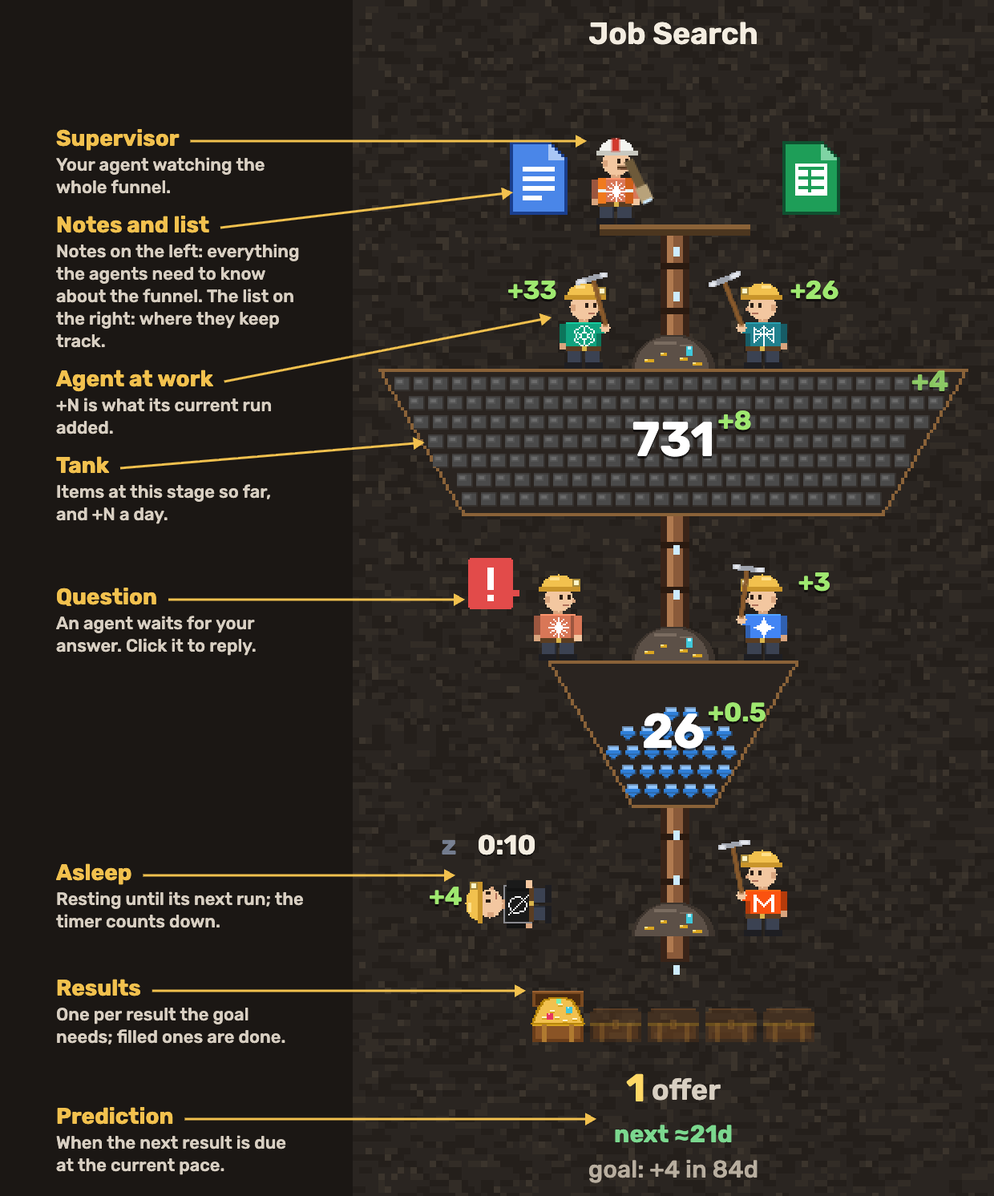
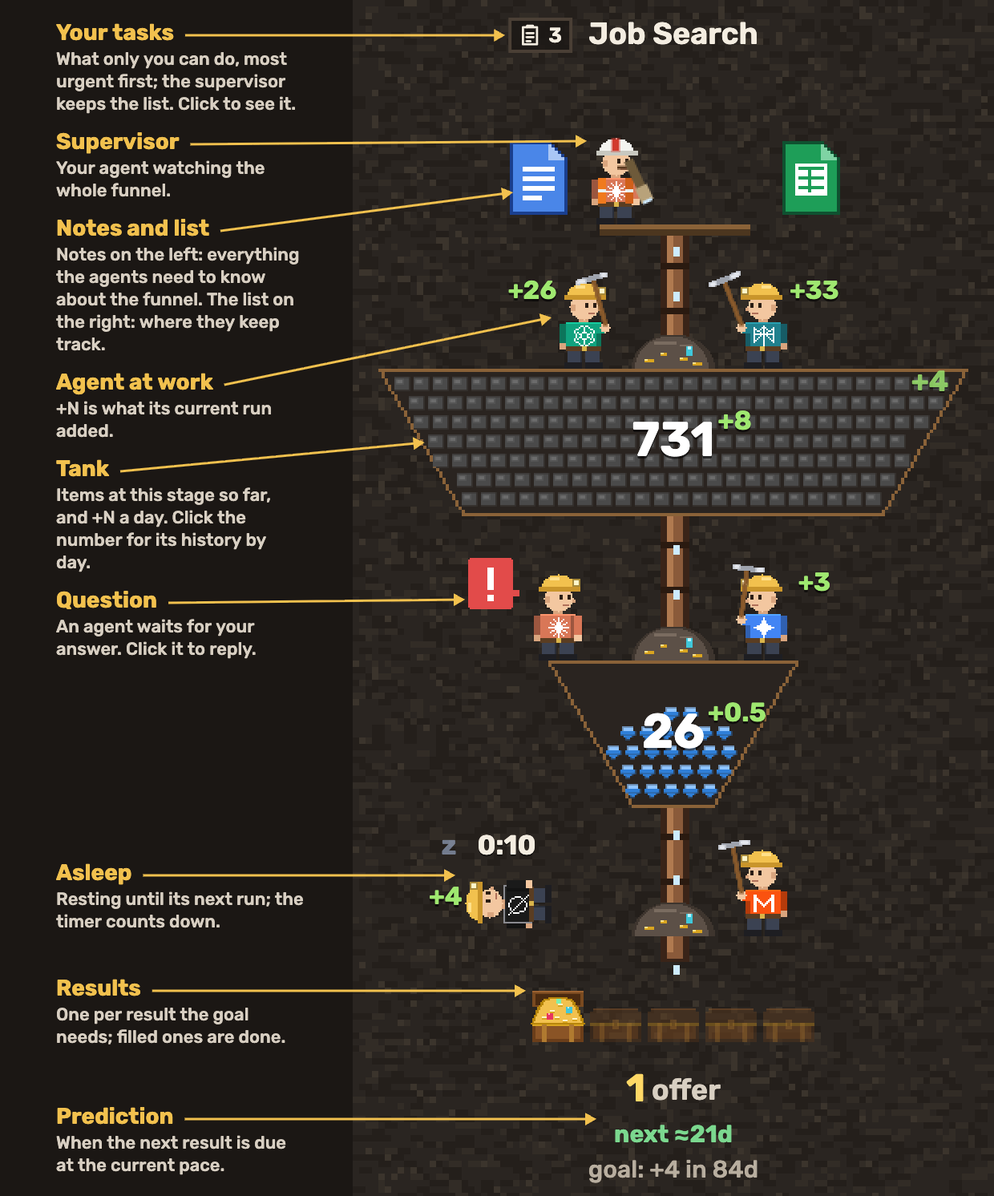
Docs up to date: README covers your tasks, a stage's history, run costs, the fixed zoom and the wake script; the explained funnel (README, landing page) shows and labels your tasks; listing counts 14 tools

diff --git a/src/i18n.js b/src/i18n.js
@@ -6,12 +6,12 @@
 // Static pages mark text with data-i18n="key" (text), data-i18n-html="key" (text with links) and
 // data-i18n-attr="placeholder:key; title:key"; scripts call t(key, …args).
 
-import es from './lang/es.js?v=e7998c4c';
-import vi from './lang/vi.js?v=e7998c4c';
-import ja from './lang/ja.js?v=e7998c4c';
-import pt from './lang/pt.js?v=e7998c4c';
-import tr from './lang/tr.js?v=e7998c4c';
-import ko from './lang/ko.js?v=e7998c4c';
+import es from './lang/es.js?v=a894eda7';
+import vi from './lang/vi.js?v=a894eda7';
+import ja from './lang/ja.js?v=a894eda7';
+import pt from './lang/pt.js?v=a894eda7';
+import tr from './lang/tr.js?v=a894eda7';
+import ko from './lang/ko.js?v=a894eda7';
 
 export const LANGS = { en: 'English', ru: 'Русский', es: 'Español', pt: 'Português', zh: '中文', ja: '日本語', ko: '한국어', tr: 'Türkçe', th: 'ไทย', vi: 'Tiếng Việt' };
 export const SHORT = { en: 'EN', ru: 'RU', es: 'ES', pt: 'PT', zh: '中文', ja: 'JA', ko: 'KO', tr: 'TR', th: 'ไทย', vi: 'VI' };
@@ -122,6 +122,8 @@ const STRINGS = {
   'home.p3': L('When an agent needs you, it raises a hand. Reply from your phone and it gets back to work.', 'Когда агенту нужны вы, он поднимает руку. Ответьте с телефона — и он вернётся к работе.', '当智能体需要你时，它会举手。用手机回复，它就继续工作。', 'เมื่อเอเจนต์ต้องการคุณ มันจะยกมือ ตอบจากมือถือแล้วมันจะกลับไปทำงานต่อ'),
 
   // The landing page's funnel: what each part is
+  'guide.tasks.h': L('Your tasks', 'Ваши дела', '你的待办', 'งานของคุณ'),
+  'guide.tasks': L('What only you can do, most urgent first; the supervisor keeps the list. Click to see it.', 'То, что можете сделать только вы, от самого срочного; список ведёт супервайзер. Нажмите, чтобы посмотреть.', '只有你能做的事，最紧急的在前；清单由主管维护。点击查看。', 'สิ่งที่มีแค่คุณทำได้ เรียงจากเร่งด่วนที่สุด ผู้ดูแลเป็นคนดูแลรายการ คลิกเพื่อดู'),
   'guide.supervisor.h': L('Supervisor', 'Супервайзер', '主管', 'ผู้ดูแล'),
   'guide.supervisor': L('Your agent watching the whole funnel.', 'Ваш агент, следящий за всей воронкой.', '你的智能体，盯着整个漏斗。', 'เอเจนต์ของคุณที่คอยดูทั้งกรวย'),
   'guide.doc.h': L('Notes and list', 'Заметки и список', '笔记和清单', 'โน้ตและรายการ'),
@@ -129,7 +131,7 @@ const STRINGS = {
   'guide.sheet.h': L('Sheet', 'Таблица', '表格', 'ตาราง'),
   'guide.sheet': L('The table where the agents keep track of everything.', 'Таблица, где агенты ведут учёт всего.', '智能体记录一切的表格。', 'ตารางที่เอเจนต์ใช้ติดตามทุกอย่าง'),
   'guide.tank.h': L('Tank', 'Бак', '储罐', 'ถัง'),
-  'guide.tank': L('Items at this stage so far, and +N a day (or an hour, a week: your choice).', 'Сколько позиций дошло до этого этапа и +N в день (или в час, в неделю — как выберете).', '到达这个阶段的数量，以及每天 +N（也可选每小时、每周）。', 'จำนวนรายการที่ถึงขั้นนี้แล้ว และ +N ต่อวัน (หรือต่อชั่วโมง ต่อสัปดาห์ ตามที่เลือก)'),
+  'guide.tank': L('Items at this stage so far, and +N a day (or an hour, a week: your choice). Click the number for its history by day.', 'Сколько позиций дошло до этого этапа и +N в день (или в час, в неделю — как выберете). Нажмите на число — история по дням.', '到达这个阶段的数量，以及每天 +N（也可选每小时、每周）。 点击数字查看每日历史。', 'จำนวนรายการที่ถึงขั้นนี้แล้ว และ +N ต่อวัน (หรือต่อชั่วโมง ต่อสัปดาห์ ตามที่เลือก) คลิกตัวเลขเพื่อดูประวัติรายวัน'),
   'guide.question.h': L('Question', 'Вопрос', '问题', 'คำถาม'),
   'guide.question': L('An agent waits for your answer. Click it to reply.', 'Агент ждёт вашего ответа. Нажмите, чтобы ответить.', '智能体在等你回复。点击即可回复。', 'เอเจนต์กำลังรอคำตอบจากคุณ คลิกเพื่อตอบ'),
   'guide.asleep.h': L('Asleep', 'Спит', '休眠', 'หลับอยู่'),

diff --git a/index.html b/index.html
@@ -23,7 +23,7 @@
   <link rel="preconnect" href="https://fonts.googleapis.com">
   <link rel="preconnect" href="https://fonts.gstatic.com" crossorigin>
   <link href="https://fonts.googleapis.com/css2?family=Tiny5&family=Rubik:wght@400;500;600;700&family=Noto+Sans+SC:wght@400;500;700&family=Noto+Sans+Thai:wght@400;500;700&family=Be+Vietnam+Pro:wght@400;500;600;700&family=Noto+Sans+JP:wght@400;500;700&family=Noto+Sans+KR:wght@400;500;700&display=swap" rel="stylesheet">
-  <link rel="stylesheet" href="site.css?v=e7998c4c">
+  <link rel="stylesheet" href="site.css?v=a894eda7">
 </head>
 <body>
   <div class="wrap">
@@ -48,12 +48,13 @@
            at its part's height (--y) with an arrow to it (--x), as fractions of the picture. -->
       <div class="guide">
         <img src="docs/img/funnel-plain.png" alt="One goal funnel of the demo" data-i18n-attr="alt:home.shotAlt" width="800" height="1368">
+        <div class="note up" style="--x:0.243;--y:0.029"><b data-i18n="guide.tasks.h">Your tasks</b><span data-i18n="guide.tasks">What only you can do, most urgent first; the supervisor keeps the list. Click to see it.</span></div>
         <div class="note up" style="--x:0.37;--y:0.118"><b data-i18n="guide.supervisor.h">Supervisor</b><span data-i18n="guide.supervisor">Your agent watching the whole funnel.</span></div>
         <div class="note" style="--x:0.255;--y:0.161"><b data-i18n="guide.doc.h">Notes and list</b><span data-i18n="guide.doc">Notes on the left: everything the agents need to know about the funnel. The list on the right: where they keep track.</span></div>
         <div class="note" style="--x:0.315;--y:0.265"><b data-i18n="guide.work.h">Agent at work</b><span data-i18n="guide.work">+N is what its current run added.</span></div>
-        <div class="note" style="--x:0.117;--y:0.37"><b data-i18n="guide.tank.h">Tank</b><span data-i18n="guide.tank">Items at this stage so far, and +N a day.</span></div>
-        <div class="note" style="--x:0.18;--y:0.489"><b data-i18n="guide.question.h">Question</b><span data-i18n="guide.question">An agent waits for your answer. Click it to reply.</span></div>
-        <div class="note" style="--x:0.095;--y:0.732"><b data-i18n="guide.asleep.h">Asleep</b><span data-i18n="guide.asleep">Resting until its next run; the timer counts down.</span></div>
+        <div class="note" style="--x:0.117;--y:0.37"><b data-i18n="guide.tank.h">Tank</b><span data-i18n="guide.tank">Items at this stage so far, and +N a day. Click the number for its history by day.</span></div>
+        <div class="note" style="--x:0.18;--y:0.501"><b data-i18n="guide.question.h">Question</b><span data-i18n="guide.question">An agent waits for your answer. Click it to reply.</span></div>
+        <div class="note" style="--x:0.165;--y:0.732"><b data-i18n="guide.asleep.h">Asleep</b><span data-i18n="guide.asleep">Resting until its next run; the timer counts down.</span></div>
         <div class="note" style="--x:0.275;--y:0.828"><b data-i18n="guide.results.h">Results</b><span data-i18n="guide.results">One per result the goal needs; filled ones are done.</span></div>
         <div class="note" style="--x:0.385;--y:0.936"><b data-i18n="guide.prediction.h">Prediction</b><span data-i18n="guide.prediction">When the next result is due at the current pace.</span></div>
       </div>
@@ -79,7 +80,7 @@
       <span><a href="https://github.com/oponfil/goalcraft/blob/main/docs/MCP.md" target="_blank" rel="noopener" data-i18n="footer.docs">Docs</a> · <a href="deck/" target="_blank" rel="noopener" data-i18n="footer.deck">Pitch deck</a> · <a href="privacy/" data-i18n="footer.privacy">Privacy</a> · <a href="terms/" data-i18n="footer.terms">Terms</a> · <a href="contact/" data-i18n="footer.contact">Contact</a> · <a class="gh" href="https://github.com/oponfil/goalcraft" target="_blank" rel="noopener" aria-label="GitHub" title="GitHub"><svg viewBox="0 0 16 16" width="16" height="16" aria-hidden="true"><path fill="currentColor" d="M8 0C3.58 0 0 3.58 0 8c0 3.54 2.29 6.53 5.47 7.59.4.07.55-.17.55-.38 0-.19-.01-.82-.01-1.49-2.01.37-2.53-.49-2.69-.94-.09-.23-.48-.94-.82-1.13-.28-.15-.68-.52-.01-.53.63-.01 1.08.58 1.23.82.72 1.21 1.87.87 2.33.66.07-.52.28-.87.51-1.07-1.78-.2-3.64-.89-3.64-3.95 0-.87.31-1.59.82-2.15-.08-.2-.36-1.02.08-2.12 0 0 .67-.21 2.2.82.64-.18 1.32-.27 2-.27.68 0 1.36.09 2 .27 1.53-1.04 2.2-.82 2.2-.82.44 1.1.16 1.92.08 2.12.51.56.82 1.27.82 2.15 0 3.07-1.87 3.75-3.65 3.95.29.25.54.73.54 1.48 0 1.07-.01 1.93-.01 2.2 0 .21.15.46.55.38A8.013 8.013 0 0016 8c0-4.42-3.58-8-8-8z"/></svg></a></span>
     </footer>
   </div>
-  <script type="module" src="src/nav.js?v=e7998c4c"></script>
-  <script type="module" src="src/guide-live.js?v=e7998c4c"></script>
+  <script type="module" src="src/nav.js?v=a894eda7"></script>
+  <script type="module" src="src/guide-live.js?v=a894eda7"></script>
 </body>
 </html>

diff --git a/tools/render-docs.js b/tools/render-docs.js
@@ -1,12 +1,12 @@
 // Renders the README pictures (agents sheet, theme samples, the board) and the link preview card from the same drawing code as
 // the dashboard and saves them through serve.py: open http://localhost:5173/tools/render-docs.html
 // (always in English: the page adds ?lang=en to itself).
-import { AGENTS, FUNNELS } from '../src/data.js?v=e7998c4c';
-import { Scene, CW, drawWork, TOOL_PERIOD } from '../src/scene.js?v=e7998c4c';
-import { guideScene, guideHeight, drawGuide, TH } from '../src/guide.js?v=e7998c4c';
+import { AGENTS, FUNNELS } from '../src/data.js?v=a894eda7';
+import { Scene, CW, drawWork, TOOL_PERIOD } from '../src/scene.js?v=a894eda7';
+import { guideScene, guideHeight, drawGuide, TH } from '../src/guide.js?v=a894eda7';
 import { GIFEncoder, quantize, applyPalette } from 'https://cdn.jsdelivr.net/npm/gifenc@1.0.3/dist/gifenc.esm.js';
-import { THEMES } from '../src/themes.js?v=e7998c4c';
-import { drawStanding, drawPickaxe, drawShears, drawBeaker, drawBow, drawArrow, drawLaptop, drawStamp, drawHammer, drawSword, drawRollingPin } from '../src/sprites.js?v=e7998c4c';
+import { THEMES } from '../src/themes.js?v=a894eda7';
+import { drawStanding, drawPickaxe, drawShears, drawBeaker, drawBow, drawArrow, drawLaptop, drawStamp, drawHammer, drawSword, drawRollingPin } from '../src/sprites.js?v=a894eda7';
 
 const FONT = 'Rubik, system-ui, sans-serif';
 
@@ -208,7 +208,7 @@ function funnelGuide({ labels = true, scene = null, show = true } = {}) {
   const left = labels ? side : 0;
   const [c, g] = canvas(left + CW * K, TH * K + Math.min(scene.canvas.height, Math.ceil(guideHeight(scene) * K)), show);
   g.fillStyle = '#1B1714'; g.fillRect(0, 0, c.width, c.height);
-  drawGuide(scene, g, left);
+  const drawn = drawGuide(scene, g, left);
   // Points in the scene's logical coordinates → picture pixels.
   const P = (x, y) => [left + x * K, TH * K + y * K];
   const f = scene.funnels[0], n = f.stages.length, cx = scene.cx(0);
@@ -224,9 +224,10 @@ function funnelGuide({ labels = true, scene = null, show = true } = {}) {
   // The supervisor stands at the platform's left end for a while; the arrow points at it there.
   const sup = scene.spot(scene.agents.find(a => a.sup), 'ask');
   const notes = [
+    ...(drawn.tasks ? [[[left + drawn.tasks.x, drawn.tasks.y + drawn.tasks.h / 2], 'Your tasks', 'What only you can do, most urgent first; the supervisor keeps the list. Click to see it.']] : []),
     [P(sup.x + 2, sup.y + 2), 'Supervisor', 'Your agent watching the whole funnel.'],
     [P(doc0.x + 3, doc0.y + 18), 'Notes and list', 'Notes on the left: everything the agents need to know about the funnel. The list on the right: where they keep track.'],
-    [P(cx - tankMid + 2, s0.y + s0.h / 2), 'Tank', 'Items at this stage so far, and +N a day.'],
+    [P(cx - tankMid + 2, s0.y + s0.h / 2), 'Tank', 'Items at this stage so far, and +N a day. Click the number for its history by day.'],
     // The bubble bobs; the arrow points where it rests, so the label stays still.
     [P(ask.bubble.x, scene.spot(ask, 'ask').y - 2 + 11), 'Question', 'An agent waits for your answer. Click it to reply.'],
     [P(sleep.x - 1, sleep.y + 1), 'Asleep', 'Resting until its next run; the timer counts down.'],
@@ -251,10 +252,10 @@ function funnelGuide({ labels = true, scene = null, show = true } = {}) {
   // from the heading to the point: straight across, or slanting up when the label above pushed this
   // one down.
   let bottom = 0;
-  notes.sort((a, b) => a[0][1] - b[0][1]).forEach(([[tx, ty], head, text]) => {
+  notes.sort((a, b) => a[0][1] - b[0][1]).forEach(([[tx, ty], head, text, minTop = 0]) => {
     g.font = `500 22px ${FONT}`;
     const lines = wrap(text, side - 130), lh = 28, h = 36 + lines.length * lh, x = 70;
-    const top = Math.max(bottom + 16, ty - 16);
+    const top = Math.max(bottom + 16, ty - 16, minTop);
     bottom = top + h;
     g.textAlign = 'left'; g.textBaseline = 'top';
     g.font = `700 28px ${FONT}`; g.fillStyle = '#F2C14E'; g.fillText(head, x, top);

diff --git a/src/guide.js b/src/guide.js
@@ -1,8 +1,8 @@
 // The funnel the landing page and the README explain: the demo's Job Search cut to two stages,
 // with an agent in each state the labels point at. They stay in their states, so the labels always
 // point at them. The landing page runs it live; tools/render-docs.js records it.
-import { FUNNELS } from './data.js?v=e7998c4c';
-import { Scene, CW } from './scene.js?v=e7998c4c';
+import { FUNNELS } from './data.js?v=a894eda7';
+import { Scene, CW } from './scene.js?v=a894eda7';
 
 export const TH = 22;  // the title strip over the funnel, in scene units
 const FONT = 'Rubik, system-ui, sans-serif';
@@ -45,6 +45,24 @@ export function drawGuide(scene, g, left = 0) {
   scene.strip ??= scene.titleStrip(0, TH);
   g.drawImage(scene.strip, left, 0, fw, TH * K);
   g.font = `600 ${19 * scene.dpr}px ${FONT}`; g.textAlign = 'center'; g.textBaseline = 'middle';
-  g.fillStyle = '#F4EDE1'; g.fillText(scene.funnels[0].title, left + fw / 2, TH * K / 2);
-  return { w: fw, h: TH * K + h };
+  const f = scene.funnels[0], d = scene.dpr, my = TH * K / 2;
+  g.fillStyle = '#F4EDE1'; g.fillText(f.title, left + fw / 2, my);
+  // The person's tasks by the title, as on the dashboard: a clipboard and how many. Here on its left,
+  // so the label's arrow reaches it without crossing the title.
+  let tasks = null;
+  if (f.tasks?.length) {
+    const tw = g.measureText(f.title).width, bw = 40 * d, bh = 22 * d, x = left + fw / 2 - tw / 2 - 10 * d - bw, y = my - bh / 2;
+    g.fillStyle = 'rgba(27, 23, 20, 0.85)'; g.fillRect(x, y, bw, bh);
+    g.strokeStyle = '#4A3F35'; g.lineWidth = 2 * d; g.strokeRect(x + d, y + d, bw - 2 * d, bh - 2 * d);
+    g.save(); g.translate(x + 6 * d, y + 3.5 * d); g.scale(15 * d / 24, 15 * d / 24);
+    g.strokeStyle = '#F4EDE1'; g.lineWidth = 2.2; g.lineCap = 'round'; g.lineJoin = 'round';
+    g.strokeRect(5, 4, 14, 17);
+    g.beginPath(); g.moveTo(9, 4); g.lineTo(9, 2.5); g.lineTo(15, 2.5); g.lineTo(15, 4);
+    g.moveTo(8.5, 10); g.lineTo(15.5, 10); g.moveTo(8.5, 14); g.lineTo(15.5, 14); g.moveTo(8.5, 18); g.lineTo(12.5, 18); g.stroke();
+    g.restore();
+    g.font = `600 ${13 * d}px ${FONT}`; g.textAlign = 'left'; g.fillStyle = '#F4EDE1';
+    g.fillText(String(f.tasks.length), x + 25 * d, my + 0.5 * d);
+    tasks = { x: x - left, y, w: bw, h: bh };
+  }
+  return { w: fw, h: TH * K + h, tasks };
 }

diff --git a/pricing/index.html b/pricing/index.html
@@ -23,7 +23,7 @@
   <link rel="preconnect" href="https://fonts.googleapis.com">
   <link rel="preconnect" href="https://fonts.gstatic.com" crossorigin>
   <link href="https://fonts.googleapis.com/css2?family=Tiny5&family=Rubik:wght@400;500;600;700&family=Noto+Sans+SC:wght@400;500;700&family=Noto+Sans+Thai:wght@400;500;700&family=Be+Vietnam+Pro:wght@400;500;600;700&family=Noto+Sans+JP:wght@400;500;700&family=Noto+Sans+KR:wght@400;500;700&display=swap" rel="stylesheet">
-  <link rel="stylesheet" href="../site.css?v=e7998c4c">
+  <link rel="stylesheet" href="../site.css?v=a894eda7">
 </head>
 <body>
   <div class="wrap">
@@ -80,7 +80,7 @@
       <span><a href="https://github.com/oponfil/goalcraft/blob/main/docs/MCP.md" target="_blank" rel="noopener" data-i18n="footer.docs">Docs</a> · <a href="../deck/" target="_blank" rel="noopener" data-i18n="footer.deck">Pitch deck</a> · <a href="../privacy/" data-i18n="footer.privacy">Privacy</a> · <a href="../terms/" data-i18n="footer.terms">Terms</a> · <a href="../contact/" data-i18n="footer.contact">Contact</a> · <a class="gh" href="https://github.com/oponfil/goalcraft" target="_blank" rel="noopener" aria-label="GitHub" title="GitHub"><svg viewBox="0 0 16 16" width="16" height="16" aria-hidden="true"><path fill="currentColor" d="M8 0C3.58 0 0 3.58 0 8c0 3.54 2.29 6.53 5.47 7.59.4.07.55-.17.55-.38 0-.19-.01-.82-.01-1.49-2.01.37-2.53-.49-2.69-.94-.09-.23-.48-.94-.82-1.13-.28-.15-.68-.52-.01-.53.63-.01 1.08.58 1.23.82.72 1.21 1.87.87 2.33.66.07-.52.28-.87.51-1.07-1.78-.2-3.64-.89-3.64-3.95 0-.87.31-1.59.82-2.15-.08-.2-.36-1.02.08-2.12 0 0 .67-.21 2.2.82.64-.18 1.32-.27 2-.27.68 0 1.36.09 2 .27 1.53-1.04 2.2-.82 2.2-.82.44 1.1.16 1.92.08 2.12.51.56.82 1.27.82 2.15 0 3.07-1.87 3.75-3.65 3.95.29.25.54.73.54 1.48 0 1.07-.01 1.93-.01 2.2 0 .21.15.46.55.38A8.013 8.013 0 0016 8c0-4.42-3.58-8-8-8z"/></svg></a></span>
     </footer>
   </div>
-  <script type="module" src="../src/nav.js?v=e7998c4c"></script>
-  <script type="module" src="../src/pricing.js?v=e7998c4c"></script>
+  <script type="module" src="../src/nav.js?v=a894eda7"></script>
+  <script type="module" src="../src/pricing.js?v=a894eda7"></script>
 </body>
 </html>

diff --git a/app/index.html b/app/index.html
@@ -12,7 +12,7 @@
   <link rel="preconnect" href="https://fonts.googleapis.com">
   <link rel="preconnect" href="https://fonts.gstatic.com" crossorigin>
   <link href="https://fonts.googleapis.com/css2?family=Tiny5&family=Rubik:wght@400;500;600;700&family=Noto+Sans+SC:wght@400;500;700&family=Noto+Sans+Thai:wght@400;500;700&family=Be+Vietnam+Pro:wght@400;500;600;700&family=Noto+Sans+JP:wght@400;500;700&family=Noto+Sans+KR:wght@400;500;700&display=swap" rel="stylesheet">
-  <link rel="stylesheet" href="../dashboard.css?v=e7998c4c">
+  <link rel="stylesheet" href="../dashboard.css?v=a894eda7">
 </head>
 <body>
   <nav class="sitebar">
@@ -40,12 +40,12 @@
   <div id="pop" hidden></div>
 
   <script type="module">
-    import { supabase } from '../src/auth.js?v=e7998c4c';
-    import { setUpConnect } from '../src/connect.js?v=e7998c4c';
-    import { loadFunnels, answer, sendMessage, watch, runs, closeReplies, history as stageHistory } from '../src/live.js?v=e7998c4c';
-    import { mountDashboard } from '../src/dashboard.js?v=e7998c4c';
-    import { account } from '../src/billing.js?v=e7998c4c';
-    import { t, fmtDuration, lang } from '../src/i18n.js?v=e7998c4c';
+    import { supabase } from '../src/auth.js?v=a894eda7';
+    import { setUpConnect } from '../src/connect.js?v=a894eda7';
+    import { loadFunnels, answer, sendMessage, watch, runs, closeReplies, history as stageHistory } from '../src/live.js?v=a894eda7';
+    import { mountDashboard } from '../src/dashboard.js?v=a894eda7';
+    import { account } from '../src/billing.js?v=a894eda7';
+    import { t, fmtDuration, lang } from '../src/i18n.js?v=a894eda7';
 
     // Coming back from an email link, supabase-js reads the session from the URL.
     const { data: { session } } = await supabase.auth.getSession();
@@ -125,6 +125,6 @@
       document.addEventListener('focusout', () => { if (pending) refresh(); });
     }
   </script>
-  <script type="module" src="../src/nav.js?v=e7998c4c"></script>
+  <script type="module" src="../src/nav.js?v=a894eda7"></script>
 </body>
 </html>

diff --git a/contact/index.html b/contact/index.html
@@ -23,7 +23,7 @@
   <link rel="preconnect" href="https://fonts.googleapis.com">
   <link rel="preconnect" href="https://fonts.gstatic.com" crossorigin>
   <link href="https://fonts.googleapis.com/css2?family=Tiny5&family=Rubik:wght@400;500;600;700&family=Noto+Sans+SC:wght@400;500;700&family=Noto+Sans+Thai:wght@400;500;700&family=Be+Vietnam+Pro:wght@400;500;600;700&family=Noto+Sans+JP:wght@400;500;700&family=Noto+Sans+KR:wght@400;500;700&display=swap" rel="stylesheet">
-  <link rel="stylesheet" href="../site.css?v=e7998c4c">
+  <link rel="stylesheet" href="../site.css?v=a894eda7">
 </head>
 <body>
   <div class="wrap">
@@ -52,6 +52,6 @@
       <span><a href="https://github.com/oponfil/goalcraft/blob/main/docs/MCP.md" target="_blank" rel="noopener" data-i18n="footer.docs">Docs</a> · <a href="../deck/" target="_blank" rel="noopener" data-i18n="footer.deck">Pitch deck</a> · <a href="../privacy/" data-i18n="footer.privacy">Privacy</a> · <a href="../terms/" data-i18n="footer.terms">Terms</a> · <a href="../contact/" data-i18n="footer.contact">Contact</a> · <a class="gh" href="https://github.com/oponfil/goalcraft" target="_blank" rel="noopener" aria-label="GitHub" title="GitHub"><svg viewBox="0 0 16 16" width="16" height="16" aria-hidden="true"><path fill="currentColor" d="M8 0C3.58 0 0 3.58 0 8c0 3.54 2.29 6.53 5.47 7.59.4.07.55-.17.55-.38 0-.19-.01-.82-.01-1.49-2.01.37-2.53-.49-2.69-.94-.09-.23-.48-.94-.82-1.13-.28-.15-.68-.52-.01-.53.63-.01 1.08.58 1.23.82.72 1.21 1.87.87 2.33.66.07-.52.28-.87.51-1.07-1.78-.2-3.64-.89-3.64-3.95 0-.87.31-1.59.82-2.15-.08-.2-.36-1.02.08-2.12 0 0 .67-.21 2.2.82.64-.18 1.32-.27 2-.27.68 0 1.36.09 2 .27 1.53-1.04 2.2-.82 2.2-.82.44 1.1.16 1.92.08 2.12.51.56.82 1.27.82 2.15 0 3.07-1.87 3.75-3.65 3.95.29.25.54.73.54 1.48 0 1.07-.01 1.93-.01 2.2 0 .21.15.46.55.38A8.013 8.013 0 0016 8c0-4.42-3.58-8-8-8z"/></svg></a></span>
     </footer>
   </div>
-  <script type="module" src="../src/nav.js?v=e7998c4c"></script>
+  <script type="module" src="../src/nav.js?v=a894eda7"></script>
 </body>
 </html>

diff --git a/privacy/index.html b/privacy/index.html
@@ -23,7 +23,7 @@
   <link rel="preconnect" href="https://fonts.googleapis.com">
   <link rel="preconnect" href="https://fonts.gstatic.com" crossorigin>
   <link href="https://fonts.googleapis.com/css2?family=Tiny5&family=Rubik:wght@400;500;600;700&family=Noto+Sans+SC:wght@400;500;700&family=Noto+Sans+Thai:wght@400;500;700&family=Be+Vietnam+Pro:wght@400;500;600;700&family=Noto+Sans+JP:wght@400;500;700&family=Noto+Sans+KR:wght@400;500;700&display=swap" rel="stylesheet">
-  <link rel="stylesheet" href="../site.css?v=e7998c4c">
+  <link rel="stylesheet" href="../site.css?v=a894eda7">
 </head>
 <body>
   <div class="wrap">
@@ -61,6 +61,6 @@
       <span><a href="https://github.com/oponfil/goalcraft/blob/main/docs/MCP.md" target="_blank" rel="noopener" data-i18n="footer.docs">Docs</a> · <a href="../deck/" target="_blank" rel="noopener" data-i18n="footer.deck">Pitch deck</a> · <a href="../privacy/" data-i18n="footer.privacy">Privacy</a> · <a href="../terms/" data-i18n="footer.terms">Terms</a> · <a href="../contact/" data-i18n="footer.contact">Contact</a> · <a class="gh" href="https://github.com/oponfil/goalcraft" target="_blank" rel="noopener" aria-label="GitHub" title="GitHub"><svg viewBox="0 0 16 16" width="16" height="16" aria-hidden="true"><path fill="currentColor" d="M8 0C3.58 0 0 3.58 0 8c0 3.54 2.29 6.53 5.47 7.59.4.07.55-.17.55-.38 0-.19-.01-.82-.01-1.49-2.01.37-2.53-.49-2.69-.94-.09-.23-.48-.94-.82-1.13-.28-.15-.68-.52-.01-.53.63-.01 1.08.58 1.23.82.72 1.21 1.87.87 2.33.66.07-.52.28-.87.51-1.07-1.78-.2-3.64-.89-3.64-3.95 0-.87.31-1.59.82-2.15-.08-.2-.36-1.02.08-2.12 0 0 .67-.21 2.2.82.64-.18 1.32-.27 2-.27.68 0 1.36.09 2 .27 1.53-1.04 2.2-.82 2.2-.82.44 1.1.16 1.92.08 2.12.51.56.82 1.27.82 2.15 0 3.07-1.87 3.75-3.65 3.95.29.25.54.73.54 1.48 0 1.07-.01 1.93-.01 2.2 0 .21.15.46.55.38A8.013 8.013 0 0016 8c0-4.42-3.58-8-8-8z"/></svg></a></span>
     </footer>
   </div>
-  <script type="module" src="../src/nav.js?v=e7998c4c"></script>
+  <script type="module" src="../src/nav.js?v=a894eda7"></script>
 </body>
 </html>

diff --git a/terms/index.html b/terms/index.html
@@ -23,7 +23,7 @@
   <link rel="preconnect" href="https://fonts.googleapis.com">
   <link rel="preconnect" href="https://fonts.gstatic.com" crossorigin>
   <link href="https://fonts.googleapis.com/css2?family=Tiny5&family=Rubik:wght@400;500;600;700&family=Noto+Sans+SC:wght@400;500;700&family=Noto+Sans+Thai:wght@400;500;700&family=Be+Vietnam+Pro:wght@400;500;600;700&family=Noto+Sans+JP:wght@400;500;700&family=Noto+Sans+KR:wght@400;500;700&display=swap" rel="stylesheet">
-  <link rel="stylesheet" href="../site.css?v=e7998c4c">
+  <link rel="stylesheet" href="../site.css?v=a894eda7">
 </head>
 <body>
   <div class="wrap">
@@ -71,6 +71,6 @@
       <span><a href="https://github.com/oponfil/goalcraft/blob/main/docs/MCP.md" target="_blank" rel="noopener" data-i18n="footer.docs">Docs</a> · <a href="../deck/" target="_blank" rel="noopener" data-i18n="footer.deck">Pitch deck</a> · <a href="../privacy/" data-i18n="footer.privacy">Privacy</a> · <a href="../terms/" data-i18n="footer.terms">Terms</a> · <a href="../contact/" data-i18n="footer.contact">Contact</a> · <a class="gh" href="https://github.com/oponfil/goalcraft" target="_blank" rel="noopener" aria-label="GitHub" title="GitHub"><svg viewBox="0 0 16 16" width="16" height="16" aria-hidden="true"><path fill="currentColor" d="M8 0C3.58 0 0 3.58 0 8c0 3.54 2.29 6.53 5.47 7.59.4.07.55-.17.55-.38 0-.19-.01-.82-.01-1.49-2.01.37-2.53-.49-2.69-.94-.09-.23-.48-.94-.82-1.13-.28-.15-.68-.52-.01-.53.63-.01 1.08.58 1.23.82.72 1.21 1.87.87 2.33.66.07-.52.28-.87.51-1.07-1.78-.2-3.64-.89-3.64-3.95 0-.87.31-1.59.82-2.15-.08-.2-.36-1.02.08-2.12 0 0 .67-.21 2.2.82.64-.18 1.32-.27 2-.27.68 0 1.36.09 2 .27 1.53-1.04 2.2-.82 2.2-.82.44 1.1.16 1.92.08 2.12.51.56.82 1.27.82 2.15 0 3.07-1.87 3.75-3.65 3.95.29.25.54.73.54 1.48 0 1.07-.01 1.93-.01 2.2 0 .21.15.46.55.38A8.013 8.013 0 0016 8c0-4.42-3.58-8-8-8z"/></svg></a></span>
     </footer>
   </div>
-  <script type="module" src="../src/nav.js?v=e7998c4c"></script>
+  <script type="module" src="../src/nav.js?v=a894eda7"></script>
 </body>
 </html>

diff --git a/login/index.html b/login/index.html
@@ -12,7 +12,7 @@
   <link rel="preconnect" href="https://fonts.googleapis.com">
   <link rel="preconnect" href="https://fonts.gstatic.com" crossorigin>
   <link href="https://fonts.googleapis.com/css2?family=Tiny5&family=Rubik:wght@400;500;600;700&family=Noto+Sans+SC:wght@400;500;700&family=Noto+Sans+Thai:wght@400;500;700&family=Be+Vietnam+Pro:wght@400;500;600;700&family=Noto+Sans+JP:wght@400;500;700&family=Noto+Sans+KR:wght@400;500;700&display=swap" rel="stylesheet">
-  <link rel="stylesheet" href="../site.css?v=e7998c4c">
+  <link rel="stylesheet" href="../site.css?v=a894eda7">
 </head>
 <body>
   <div class="wrap">
@@ -51,9 +51,9 @@
   </div>
 
   <script type="module">
-    import { supabase, afterSignIn } from '../src/auth.js?v=e7998c4c';
-    import { GOOGLE_CLIENT_ID } from '../src/config.js?v=e7998c4c';
-    import { t, lang } from '../src/i18n.js?v=e7998c4c';
+    import { supabase, afterSignIn } from '../src/auth.js?v=a894eda7';
+    import { GOOGLE_CLIENT_ID } from '../src/config.js?v=a894eda7';
+    import { t, lang } from '../src/i18n.js?v=a894eda7';
 
     const msg = document.getElementById('msg');
     const say = (text, kind = '') => { msg.textContent = text; msg.className = 'msg ' + kind; };
@@ -165,6 +165,6 @@
       else say(t('login.sendFailed'), 'error');
     });
   </script>
-  <script type="module" src="../src/nav.js?v=e7998c4c"></script>
+  <script type="module" src="../src/nav.js?v=a894eda7"></script>
 </body>
 </html>

diff --git a/src/lang/ja.js b/src/lang/ja.js
@@ -40,6 +40,8 @@ export default {
   'home.p3h': 'どこからでも返事',
   'home.p3': 'あなたが必要になると、エージェントは手を挙げます。スマホから返事をすれば、また仕事に戻ります。',
 
+  'guide.tasks.h': 'あなたのタスク',
+  'guide.tasks': 'あなたにしかできないこと。急ぐものから順に並び、スーパーバイザーが管理します。クリックで表示。',
   'guide.supervisor.h': '監督',
   'guide.supervisor': 'ファネル全体を見守るあなたのエージェント。',
   'guide.doc.h': 'メモとリスト',
@@ -47,7 +49,7 @@ export default {
   'guide.sheet.h': 'シート',
   'guide.sheet': 'エージェントがすべてを記録する表。',
   'guide.tank.h': 'タンク',
-  'guide.tank': 'この段階まで来た数と、1日あたりの +N（1時間・1週間あたりも選べます）。',
+  'guide.tank': 'この段階まで来た数と、1日あたりの +N（1時間・1週間あたりも選べます）。 数字をクリックすると日ごとの履歴を表示。',
   'guide.question.h': '質問',
   'guide.question': 'エージェントがあなたの返事を待っています。クリックで返事できます。',
   'guide.asleep.h': '睡眠中',

diff --git a/oauth/consent/index.html b/oauth/consent/index.html
@@ -13,7 +13,7 @@
   <link rel="preconnect" href="https://fonts.googleapis.com">
   <link rel="preconnect" href="https://fonts.gstatic.com" crossorigin>
   <link href="https://fonts.googleapis.com/css2?family=Tiny5&family=Rubik:wght@400;500;600;700&family=Noto+Sans+SC:wght@400;500;700&family=Noto+Sans+Thai:wght@400;500;700&family=Be+Vietnam+Pro:wght@400;500;600;700&family=Noto+Sans+JP:wght@400;500;700&family=Noto+Sans+KR:wght@400;500;700&display=swap" rel="stylesheet">
-  <link rel="stylesheet" href="../../site.css?v=e7998c4c">
+  <link rel="stylesheet" href="../../site.css?v=a894eda7">
 </head>
 <body>
   <div class="wrap">
@@ -29,8 +29,8 @@
   <script type="module">
     // OAuth consent: Supabase Auth sends the person here with ?authorization_id= when an agent
     // (Claude, ChatGPT, Cursor…) asks to connect to their Goalcraft.
-    import { supabase, siteUrl } from '../../src/auth.js?v=e7998c4c';
-    import { t } from '../../src/i18n.js?v=e7998c4c';
+    import { supabase, siteUrl } from '../../src/auth.js?v=a894eda7';
+    import { t } from '../../src/i18n.js?v=a894eda7';
 
     const card = document.getElementById('card');
     const esc = s => String(s ?? '').replace(/[&<>"']/g, c => `&#${c.charCodeAt(0)};`);
